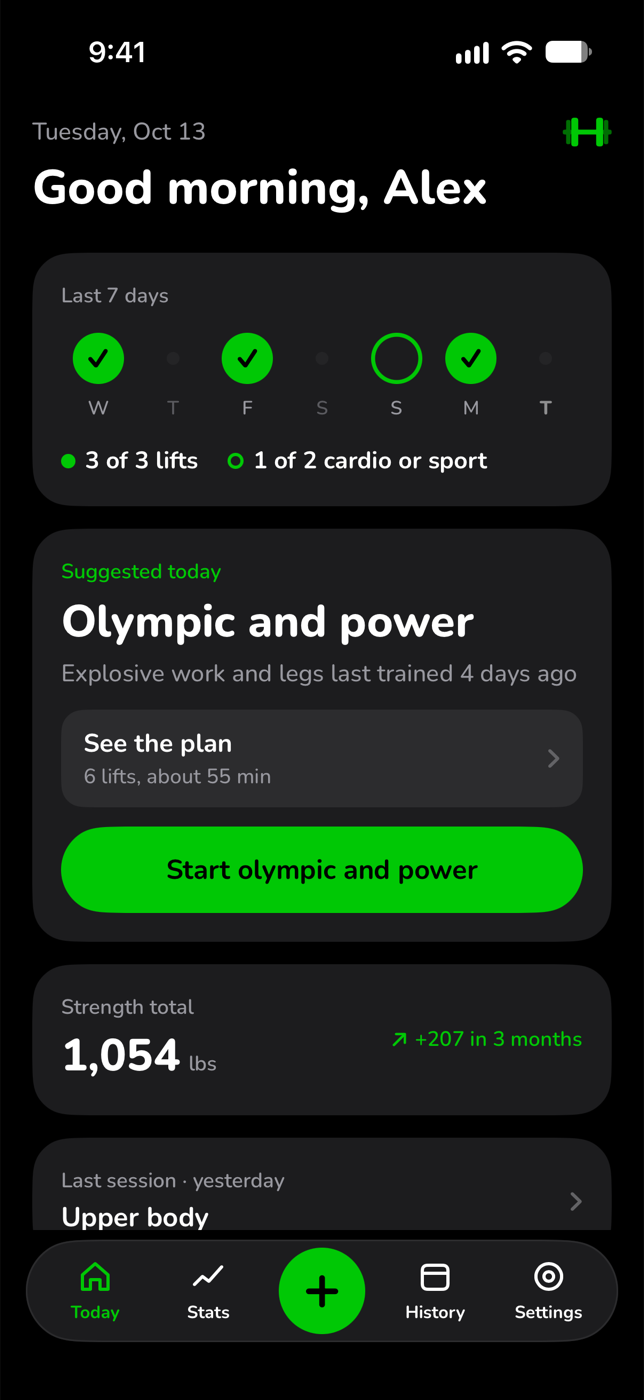
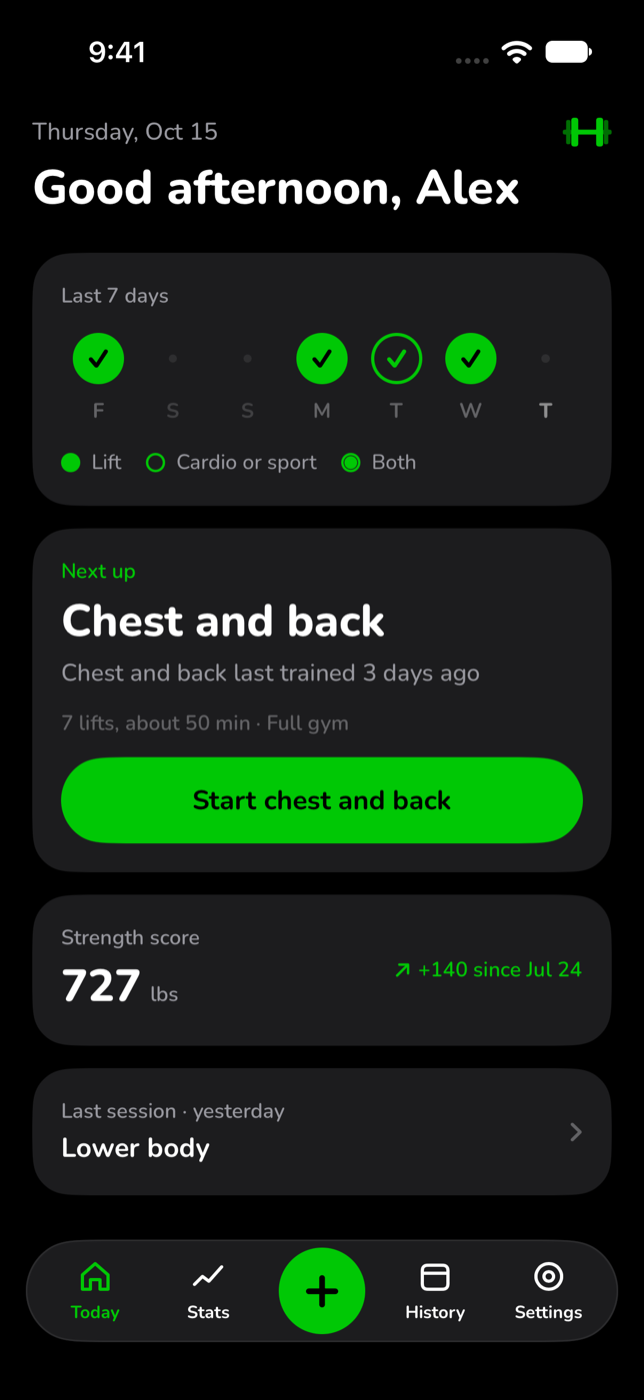
Founding members: Pro free for life before Feb 1 2027 (hero, price, FAQ, Terms, Help); feedback takes screenshots and a recording; new screenshots

diff --git a/index.html b/index.html
@@ -69,7 +69,7 @@ footer a { color: var(--sub); font-weight: 700; }
   .phone { max-width: 250px; }
 }
 </style>
-<script type="application/ld+json">{"@context": "https://schema.org", "@type": "FAQPage", "mainEntity": [{"@type": "Question", "name": "Do I need an Apple Watch?", "acceptedAnswer": {"@type": "Answer", "text": "No. Everything works on the iPhone alone, including logging from the lock screen. If you have an Apple Watch you can also log from your wrist, and Hebomb records your heart rate while you train."}}, {"@type": "Question", "name": "What happens after my 12 workouts?", "acceptedAnswer": {"@type": "Answer", "text": "Logging, charts, and lock screen and watch logging stay free for good. Pro, the part that picks your workout and sets your weights, is $39.99 a year or $5.99 a month if you want to keep it. Nothing is charged unless you choose to subscribe."}}, {"@type": "Question", "name": "Do I need an account?", "acceptedAnswer": {"@type": "Answer", "text": "No. There is no sign-up, no email and no password. Open the app and start."}}, {"@type": "Question", "name": "Where is my data kept?", "acceptedAnswer": {"@type": "Answer", "text": "On your phone, and nowhere else. We never receive it. It is included in your usual iPhone backup, and you can save a backup file of your own from Settings whenever you like."}}, {"@type": "Question", "name": "I am new to lifting. Is it for me?", "acceptedAnswer": {"@type": "Answer", "text": "Yes. Your first workout is a short, light one that finds your starting point, and from then on Hebomb tells you which workout to do and what weight to use for each set. It is not medical advice, so check with a doctor before you start."}}, {"@type": "Question", "name": "Is there an Android version?", "acceptedAnswer": {"@type": "Answer", "text": "Not at the moment. Hebomb is for iPhone and Apple Watch."}}]}</script>
+<script type="application/ld+json">{"@context": "https://schema.org", "@type": "FAQPage", "mainEntity": [{"@type": "Question", "name": "Do I need an Apple Watch?", "acceptedAnswer": {"@type": "Answer", "text": "No. Everything works on the iPhone alone, including logging from the lock screen. If you have an Apple Watch you can also log from your wrist, and Hebomb records your heart rate while you train."}}, {"@type": "Question", "name": "What happens after my 12 workouts?", "acceptedAnswer": {"@type": "Answer", "text": "Logging, charts, and lock screen and watch logging stay free for good. Pro, the part that picks your workout and sets your weights, is $39.99 a year or $5.99 a month if you want to keep it. Nothing is charged unless you choose to subscribe."}}, {"@type": "Question", "name": "Is Pro really free for life if I download early?", "acceptedAnswer": {"@type": "Answer", "text": "Yes. Anyone whose first download of Hebomb from the App Store is before February 1, 2027 gets Pro free, for as long as they use the app. Nothing to sign up for and no card: it switches on by itself, and it comes back if you delete the app and download it again."}}, {"@type": "Question", "name": "Do I need an account?", "acceptedAnswer": {"@type": "Answer", "text": "No. There is no sign-up, no email and no password. Open the app and start."}}, {"@type": "Question", "name": "Where is my data kept?", "acceptedAnswer": {"@type": "Answer", "text": "On your phone, and nowhere else. We never receive it. It is included in your usual iPhone backup, and you can save a backup file of your own from Settings whenever you like."}}, {"@type": "Question", "name": "I am new to lifting. Is it for me?", "acceptedAnswer": {"@type": "Answer", "text": "Yes. Your first workout is a short, light one that finds your starting point, and from then on Hebomb tells you which workout to do and what weight to use for each set. It is not medical advice, so check with a doctor before you start."}}, {"@type": "Question", "name": "Is there an Android version?", "acceptedAnswer": {"@type": "Answer", "text": "Not at the moment. Hebomb is for iPhone and Apple Watch."}}]}</script>
 </head>
 <body>
 <main>
@@ -83,7 +83,7 @@ footer a { color: var(--sub); font-weight: 700; }
       <p class="lede">Hebomb picks your workout, sets a weight for every set and moves you up when you are ready. You just lift.</p>
       <!-- When the app is live, turn this into a link: <a class="get" href="APP STORE ADDRESS">Get Hebomb</a> -->
       <span class="get">Coming soon to the App Store</span>
-      <p class="small">For iPhone and Apple Watch. Your first 12 workouts have everything switched on, with no card.</p>
+      <p class="small">For iPhone and Apple Watch. Download Hebomb before February 1, 2027 and Pro is yours free, for life.</p>
     </div>
     <span class="phone" role="img" aria-label="Hebomb's Today page, with a suggested workout ready to start" style="background-image:url(img/today.png)"></span>
   </div>
@@ -116,6 +116,7 @@ footer a { color: var(--sub); font-weight: 700; }
       <div>
         <p>Your first 12 lifting workouts have everything switched on. No card and nothing to cancel, and they last as long as you take.</p>
         <p>After that the logging stays free. Pro, the part that does the thinking, is $39.99 a year or $5.99 a month if you want to keep it.</p>
+        <p><strong>Download Hebomb before February 1, 2027 and Pro is yours free, for life.</strong></p>
         <p class="sub">No account. No ads. Your training stays on your phone.</p>
       </div>
       <table>
@@ -138,6 +139,7 @@ footer a { color: var(--sub); font-weight: 700; }
     <div class="faq">
       <div><h3>Do I need an Apple Watch?</h3><p>No. Everything works on the iPhone alone, including logging from the lock screen. If you have an Apple Watch you can also log from your wrist, and Hebomb records your heart rate while you train.</p></div>
       <div><h3>What happens after my 12 workouts?</h3><p>Logging, charts, and lock screen and watch logging stay free for good. Pro, the part that picks your workout and sets your weights, is $39.99 a year or $5.99 a month if you want to keep it. Nothing is charged unless you choose to subscribe.</p></div>
+      <div><h3>Is Pro really free for life if I download early?</h3><p>Yes. Anyone whose first download of Hebomb from the App Store is before February 1, 2027 gets Pro free, for as long as they use the app. Nothing to sign up for and no card: it switches on by itself, and it comes back if you delete the app and download it again.</p></div>
       <div><h3>Do I need an account?</h3><p>No. There is no sign-up, no email and no password. Open the app and start.</p></div>
       <div><h3>Where is my data kept?</h3><p>On your phone, and nowhere else. We never receive it. It is included in your usual iPhone backup, and you can save a backup file of your own from Settings whenever you like.</p></div>
       <div><h3>I am new to lifting. Is it for me?</h3><p>Yes. Your first workout is a short, light one that finds your starting point, and from then on Hebomb tells you which workout to do and what weight to use for each set. It is not medical advice, so check with a doctor before you start.</p></div>

diff --git a/privacy/index.html b/privacy/index.html
@@ -50,7 +50,7 @@ footer { margin-top: 44px; padding-top: 16px; border-top: 1px solid var(--line);
   <p>Anything read from Apple Health stays on your devices. It is never used for advertising, never shared, and never sent off the phone. You can change or remove access at any time in the Health app, under Sharing.</p>
 
   <h2>Feedback you send</h2>
-  <p>Settings has a Send feedback page. Nothing is sent unless you write something and tap Send. What goes is your message, a picture if you choose to add one, the email address if you choose to type one so we can reply, the app version and your phone model. None of your workouts, weights or health data goes with it. Feedback is kept in a private Google Sheet that only Hebomb's developer can see, used only to answer you and improve the app, and deleted on request: write to us and say so.</p>
+  <p>Settings has a Send feedback page. Nothing is sent unless you write something and tap Send. What goes is your message, up to three screenshots and one screen recording if you choose to add them, the email address if you choose to type one so we can reply, the app version and your phone model. None of your workouts, weights or health data goes with it. Feedback is kept in a private Google Sheet, with any screenshots and recording in a private Google Drive folder, that only Hebomb's developer can see, used only to answer you and improve the app, and deleted on request: write to us and say so.</p>
 
   <h2>What we do not do</h2>
   <ul>
@@ -76,7 +76,7 @@ footer { margin-top: 44px; padding-top: 16px; border-top: 1px solid var(--line);
   <h2>Contact</h2>
   <p>Questions: <a href="mailto:help@hebomb.com">help@hebomb.com</a></p>
 
-  <footer>Last updated October 14, 2026.</footer>
+  <footer>Last updated October 15, 2026.</footer>
 </main>
 </body>
 </html>

diff --git a/support/index.html b/support/index.html
@@ -44,7 +44,7 @@ footer { margin-top: 44px; padding-top: 16px; border-top: 1px solid var(--line);
   <p>Open Settings in Hebomb, tap Hebomb Pro, then Restore purchases. Use the same Apple Account you bought it with.</p>
 
   <h2>How the free workouts work</h2>
-  <p>Your first 12 lifting workouts have everything switched on, however long they take. Cardio and sport never count toward the 12. No card is needed and nothing is charged. After that, logging and charts stay free, on the lock screen and the watch too. The coaching is Hebomb Pro: the suggested workout, the worked-out weights, moving you up and the lift variations. Everything you log and every chart, your heart rate and zones included, stays free. Pro is a subscription by the year or by the month that you can choose in the app whenever you like.</p>
+  <p>Your first 12 lifting workouts have everything switched on, however long they take. Cardio and sport never count toward the 12. No card is needed and nothing is charged. After that, logging and charts stay free, on the lock screen and the watch too. The coaching is Hebomb Pro: the suggested workout, the worked-out weights, moving you up and the lift variations. Everything you log and every chart, your heart rate and zones included, stays free. Pro is a subscription by the year or by the month that you can choose in the app whenever you like. If your first download of Hebomb was before February 1, 2027, Pro is yours free, for life, and switches on by itself.</p>
 
   <h2>Cancelling a subscription or getting a refund</h2>
   <p>Subscriptions are managed by Apple. On your iPhone open Settings, tap your name, then Subscriptions. Refunds are handled by Apple at <a href="https://reportaproblem.apple.com">reportaproblem.apple.com</a>.</p>

diff --git a/terms/index.html b/terms/index.html
@@ -55,6 +55,7 @@ footer { margin-top: 44px; padding-top: 16px; border-top: 1px solid var(--line);
   <h2>Hebomb Pro</h2>
   <ul>
     <li>Your first 12 lifting workouts have everything switched on. No card is needed and nothing is charged.</li>
+    <li>Founding members: if your first download of Hebomb from the App Store is before February 1, 2027, Pro is free for as long as you use the app, with nothing to pay and nothing to renew. It is tied to your Apple Account. If Hebomb is ever withdrawn, as described below, it ends with the app.</li>
     <li>After that, Pro is a subscription by the year or by the month. The price is shown in the app before you buy.</li>
     <li>Apple takes the payment through your Apple Account. The subscription renews automatically until you cancel, which you can do at any time in your App Store settings. Cancel at least a day before the renewal date to avoid the next charge. Pro then stays on until the end of the period you paid for.</li>
     <li>Refunds are handled by Apple. You can ask for one at <a href="https://reportaproblem.apple.com">reportaproblem.apple.com</a>.</li>
@@ -82,7 +83,7 @@ footer { margin-top: 44px; padding-top: 16px; border-top: 1px solid var(--line);
   <h2>Contact</h2>
   <p>Questions: <a href="mailto:help@hebomb.com">help@hebomb.com</a></p>
 
-  <footer>Last updated October 13, 2026.</footer>
+  <footer>Last updated October 15, 2026.</footer>
 </main>
 </body>
 </html>
